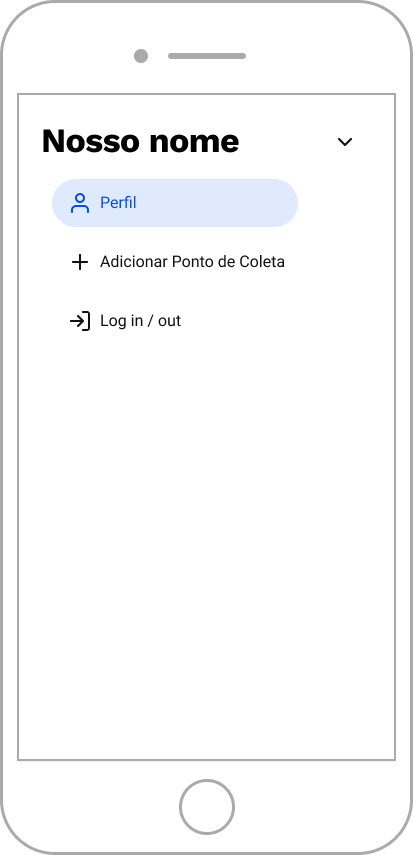
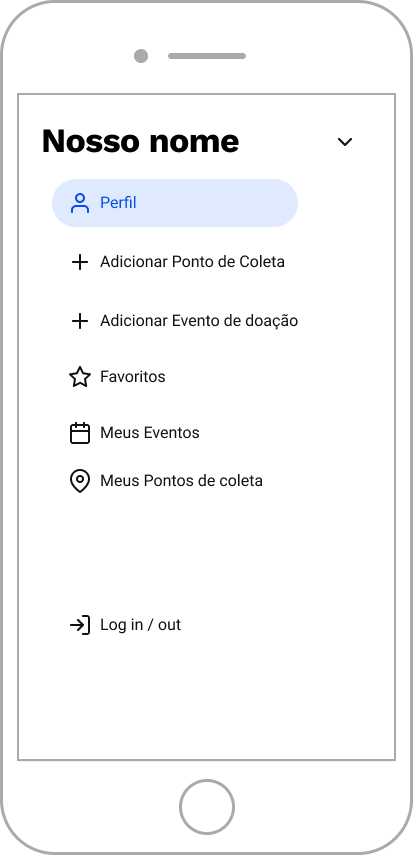
documentacao wireframes

diff --git a/docs/04-Projeto de Interface.md b/docs/04-Projeto de Interface.md
@@ -42,16 +42,61 @@ Os componentes encontrados na tela são:
 
 <br>
 
-### Tela - Listar Pontos de Coleta
-Apresenta lista de pontos de coleta de acordo com a cidade selecionada ou pesquisa realizada.
+### Tela - Listar Pontos ou Eventos de Coleta
+Apresenta lista de pontos ou eventos de coleta de acordo com a seleção no mapa ou pesquisa realizada.
 
 Os componentes encontrados na tela são:
  - Campo que permite que o usuário busque por um ponto de coleta
- - Lista que permite selecionar um dos pontos próximos
+ - Lista que permite selecionar um dos pontos ou eventos próximos
 <br><br>
 
 <p>
  <img src="img/wireframes/list.png" width="180" hspace="40">
+</p>
+
+<br>
+
+### Tela - Visualizar Ponto ou Evento de Coleta
+Apresenta informações do ponto ou evento de coleta selecionado
+
+Os componentes encontrados na tela são:
+ - Dados do ponto ou evento de coleta
+ - Botões "Editar" e "Deletar"
+<br><br>
+
+<p>
+ <img src="img/wireframes/visualizar.png" width="180" hspace="40">
+</p>
+
+<br>
+
+### Tela - Editar Ponto de Coleta
+Apresenta formulário para edição dos dados do ponto de coleta
+
+Os componentes encontrados na tela são:
+ - Formulário de edição
+ - Botão "Salvar" que efetua a atualização dos dados do ponto de coleta na base de dados da aplicação e apresenta mensagem de sucesso
+<br><br>
+
+<p>
+ <img src="img/wireframes/editar-form.png" width="180" hspace="40">
+ <img src="img/wireframes/editar-sucesso.png" width="180" hspace="40">
+</p>
+
+<br>
+
+### Tela - Deletar Ponto de Coleta
+Apresenta modal de confirmação de exclusão
+
+Os componentes encontrados na tela são:
+ - Modal de confirmação de exclusão
+ - No modal, Botão "Ok" que efetua a exclusão dos dados do ponto de coleta na base de dados da aplicação e apresenta mensagem de sucesso e<br>
+ 'Cancelar' que cancela a ação
+<br><br>
+
+<p>
+ <img src="img/wireframes/deletar-confirmacao.png" width="180" hspace="40">
+ <img src="img/wireframes/deletar-sucesso.png" width="180" hspace="40">
 </p>
 
 <br>
@@ -61,13 +106,13 @@ Apresenta o formulário de cadastro de usuário.
 
 Os componentes encontrados na tela são:
  - Formulário de cadastro de usuário
- - Botão "Salvar" que efetua o cadastro do usuário na base de dados da aplicação, apresenta mensagem de confirmação e o direciona para a página Home
+ - Botão "Salvar" que efetua o cadastro do usuário na base de dados da aplicação, apresenta mensagem de sucesso e o direciona para a página Home
 
 <br><br>
 
 <p>
  <img src="img/wireframes/cadastro-usuario.png" width="180" hspace="40">
- <img src="img/wireframes/confirmacao-usuario.png" width="180" hspace="40">
+ <img src="img/wireframes/sucesso-usuario.png" width="180" hspace="40">
 </p>
 
 <br>
@@ -77,13 +122,13 @@ Apresenta o formulário de cadastro de ponto de coleta.
 
 Os componentes encontrados na tela são:
  - Formulário de cadastro de ponto de coleta
- - Botão "Salvar" que efetua o cadastro do ponto de coleta na base de dados da aplicação
+ - Botão "Salvar" que efetua o cadastro do ponto de coleta na base de dados da aplicação e apresenta mensagem de sucesso
 
 <br><br>
 
 <p>
  <img src="img/wireframes/cadastro-ponto.png" width="180" hspace="40">
- <img src="img/wireframes/confirmacao-ponto.png" width="180" hspace="40">
+ <img src="img/wireframes/sucesso-ponto.png" width="180" hspace="40">
 </p>
 
 <br>
